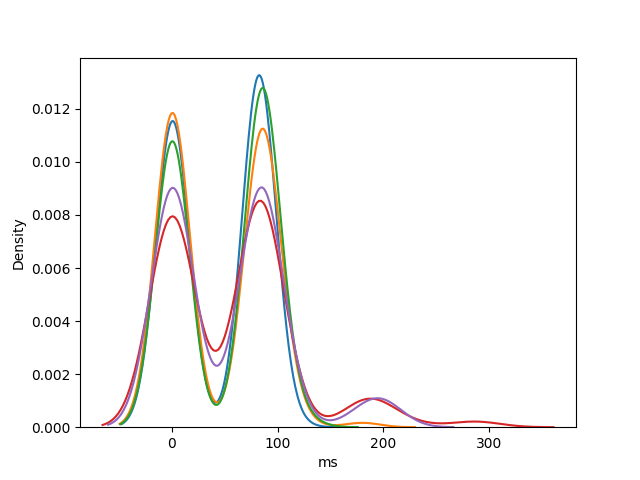
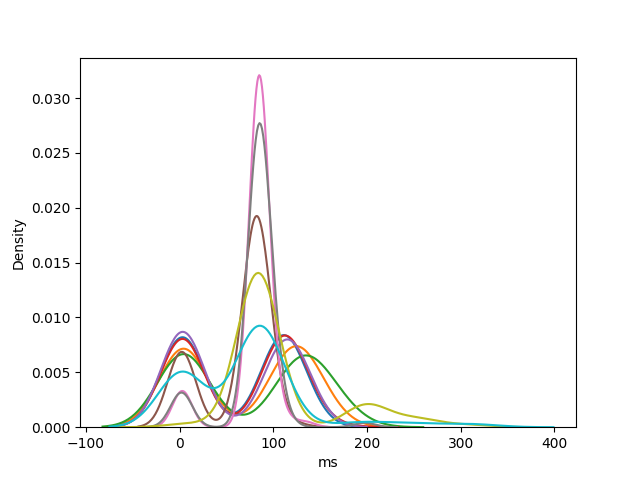
readme

diff --git a/plots/README.md b/plots/README.md
@@ -9,13 +9,13 @@
 
 | Key         | Value                        |
 | ----------- | ---------------------------- |
-| Completions | 117  |
-| Mean        | 45ms |
-| STD         | 41ms  |
-| Q0          | 0ms   |
-| Q50         | 81ms  |
-| Q95         | 85ms  |
-| Q100        | 109ms |
+| Completions | 77  |
+| Mean        | 62ms |
+| STD         | 36ms  |
+| Q0          | 1ms   |
+| Q50         | 82ms  |
+| Q95         | 84ms  |
+| Q100        | 121ms |
 
 ![fig.img](https://raw.githubusercontent.com/ms-jpq/vim.bench/main/plots/c6426ab57e802fa08dcffe99fbfeac14.png)
 
@@ -28,13 +28,13 @@
 
 | Key         | Value                        |
 | ----------- | ---------------------------- |
-| Completions | 136  |
-| Mean        | 49ms |
-| STD         | 44ms  |
-| Q0          | 0ms   |
-| Q50         | 82ms  |
-| Q95         | 97ms  |
-| Q100        | 127ms |
+| Completions | 81  |
+| Mean        | 79ms |
+| STD         | 25ms  |
+| Q0          | 1ms   |
+| Q50         | 84ms  |
+| Q95         | 94ms  |
+| Q100        | 134ms |
 
 ![fig.img](https://raw.githubusercontent.com/ms-jpq/vim.bench/main/plots/78cc3e419d8cc2f802e43d486be1fb4f.png)
 
@@ -47,13 +47,13 @@
 
 | Key         | Value                        |
 | ----------- | ---------------------------- |
-| Completions | 146  |
-| Mean        | 45ms |
-| STD         | 45ms  |
-| Q0          | 0ms   |
-| Q50         | 80ms  |
-| Q95         | 97ms  |
-| Q100        | 180ms |
+| Completions | 87  |
+| Mean        | 80ms |
+| STD         | 28ms  |
+| Q0          | 1ms   |
+| Q50         | 84ms  |
+| Q95         | 100ms  |
+| Q100        | 197ms |
 
 ![fig.img](https://raw.githubusercontent.com/ms-jpq/vim.bench/main/plots/58dd12a5c42471f3e2e23eec0c8f0800.png)
 
@@ -66,13 +66,13 @@
 
 | Key         | Value                        |
 | ----------- | ---------------------------- |
-| Completions | 160  |
-| Mean        | 57ms |
-| STD         | 61ms  |
-| Q0          | 0ms   |
-| Q50         | 81ms  |
-| Q95         | 182ms  |
-| Q100        | 295ms |
+| Completions | 101  |
+| Mean        | 107ms |
+| STD         | 56ms  |
+| Q0          | 1ms   |
+| Q50         | 83ms  |
+| Q95         | 239ms  |
+| Q100        | 312ms |
 
 ![fig.img](https://raw.githubusercontent.com/ms-jpq/vim.bench/main/plots/bc190c7ef28b48a0f7c19b0b8622951d.png)
 
@@ -85,15 +85,110 @@
 
 | Key         | Value                        |
 | ----------- | ---------------------------- |
-| Completions | 147  |
-| Mean        | 53ms |
-| STD         | 55ms  |
-| Q0          | 0ms   |
-| Q50         | 81ms  |
-| Q95         | 181ms  |
-| Q100        | 206ms |
+| Completions | 97  |
+| Mean        | 71ms |
+| STD         | 63ms  |
+| Q0          | 1ms   |
+| Q50         | 82ms  |
+| Q95         | 186ms  |
+| Q100        | 323ms |
 
 ![fig.img](https://raw.githubusercontent.com/ms-jpq/vim.bench/main/plots/21b9d82fd3a81ea3309e1d5ea8b54945.png)
+
+
+---
+
+### coc
+
+**/data/buffers/1-short.txt**
+
+| Key         | Value                        |
+| ----------- | ---------------------------- |
+| Completions | 68  |
+| Mean        | 59ms |
+| STD         | 55ms  |
+| Q0          | 2ms   |
+| Q50         | 105ms  |
+| Q95         | 124ms  |
+| Q100        | 126ms |
+
+![fig.img](https://raw.githubusercontent.com/ms-jpq/vim.bench/main/plots/d6c577cf11f50485e670588f497d2c50.png)
+
+
+---
+
+### coc
+
+**/data/buffers/2-medium.txt**
+
+| Key         | Value                        |
+| ----------- | ---------------------------- |
+| Completions | 75  |
+| Mean        | 69ms |
+| STD         | 62ms  |
+| Q0          | 2ms   |
+| Q50         | 112ms  |
+| Q95         | 139ms  |
+| Q100        | 160ms |
+
+![fig.img](https://raw.githubusercontent.com/ms-jpq/vim.bench/main/plots/ae946b7db85ca3a949abe2065096a051.png)
+
+
+---
+
+### coc
+
+**/data/buffers/3-long.txt**
+
+| Key         | Value                        |
+| ----------- | ---------------------------- |
+| Completions | 83  |
+| Mean        | 75ms |
+| STD         | 68ms  |
+| Q0          | 2ms   |
+| Q50         | 120ms  |
+| Q95         | 156ms  |
+| Q100        | 176ms |
+
+![fig.img](https://raw.githubusercontent.com/ms-jpq/vim.bench/main/plots/3632ec4f899dc310bbcd681a84d47fdc.png)
+
+
+---
+
+### coc
+
+**/data/lsp/coq_nvim/coq/server/edit.py**
+
+| Key         | Value                        |
+| ----------- | ---------------------------- |
+| Completions | 78  |
+| Mean        | 61ms |
+| STD         | 56ms  |
+| Q0          | 2ms   |
+| Q50         | 105ms  |
+| Q95         | 123ms  |
+| Q100        | 163ms |
+
+![fig.img](https://raw.githubusercontent.com/ms-jpq/vim.bench/main/plots/33951bb536765add01c7bcc6666fa47a.png)
+
+
+---
+
+### coc
+
+**/data/lsp/create-react-app/packages/create-react-app/createReactApp.js**
+
+| Key         | Value                        |
+| ----------- | ---------------------------- |
+| Completions | 87  |
+| Mean        | 59ms |
+| STD         | 57ms  |
+| Q0          | 2ms   |
+| Q50         | 8ms  |
+| Q95         | 127ms  |
+| Q100        | 130ms |
+
+![fig.img](https://raw.githubusercontent.com/ms-jpq/vim.bench/main/plots/d1830fa764c681a6269d3796738bba80.png)
 
 
 ---
@@ -104,13 +199,13 @@
 
 | Key         | Value                        |
 | ----------- | ---------------------------- |
-| Completions | 104  |
-| Mean        | 30ms |
-| STD         | 22ms  |
-| Q0          | 0ms   |
-| Q50         | 33ms  |
-| Q95         | 65ms  |
-| Q100        | 71ms |
+| Completions | 68  |
+| Mean        | 45ms |
+| STD         | 13ms  |
+| Q0          | 30ms   |
+| Q50         | 42ms  |
+| Q95         | 71ms  |
+| Q100        | 82ms |
 
 ![fig.img](https://raw.githubusercontent.com/ms-jpq/vim.bench/main/plots/b5a0628258631a855e2b954dce9d61b7.png)
 
@@ -123,13 +218,13 @@
 
 | Key         | Value                        |
 | ----------- | ---------------------------- |
-| Completions | 132  |
-| Mean        | 48ms |
-| STD         | 45ms  |
-| Q0          | 0ms   |
-| Q50         | 45ms  |
-| Q95         | 111ms  |
-| Q100        | 143ms |
+| Completions | 79  |
+| Mean        | 77ms |
+| STD         | 23ms  |
+| Q0          | 40ms   |
+| Q50         | 85ms  |
+| Q95         | 107ms  |
+| Q100        | 117ms |
 
 ![fig.img](https://raw.githubusercontent.com/ms-jpq/vim.bench/main/plots/ad82d296990a5c5c2557f2e7af158e63.png)
 
@@ -142,13 +237,13 @@
 
 | Key         | Value                        |
 | ----------- | ---------------------------- |
-| Completions | 144  |
-| Mean        | 46ms |
-| STD         | 44ms  |
-| Q0          | 0ms   |
-| Q50         | 45ms  |
-| Q95         | 112ms  |
-| Q100        | 131ms |
+| Completions | 85  |
+| Mean        | 88ms |
+| STD         | 29ms  |
+| Q0          | 1ms   |
+| Q50         | 95ms  |
+| Q95         | 121ms  |
+| Q100        | 161ms |
 
 ![fig.img](https://raw.githubusercontent.com/ms-jpq/vim.bench/main/plots/675da12f4bded28a8a71ca93d7911b30.png)
 
@@ -161,13 +256,13 @@
 
 | Key         | Value                        |
 | ----------- | ---------------------------- |
-| Completions | 144  |
-| Mean        | 57ms |
-| STD         | 51ms  |
-| Q0          | 0ms   |
-| Q50         | 67ms  |
-| Q95         | 132ms  |
-| Q100        | 209ms |
+| Completions | 89  |
+| Mean        | 105ms |
+| STD         | 39ms  |
+| Q0          | 1ms   |
+| Q50         | 103ms  |
+| Q95         | 162ms  |
+| Q100        | 241ms |
 
 ![fig.img](https://raw.githubusercontent.com/ms-jpq/vim.bench/main/plots/77d454f58a6c11696a39a2b4a31ad13f.png)
 
@@ -180,13 +275,13 @@
 
 | Key         | Value                        |
 | ----------- | ---------------------------- |
-| Completions | 137  |
-| Mean        | 52ms |
-| STD         | 50ms  |
-| Q0          | 0ms   |
-| Q50         | 49ms  |
-| Q95         | 137ms  |
-| Q100        | 203ms |
+| Completions | 92  |
+| Mean        | 83ms |
+| STD         | 46ms  |
+| Q0          | 36ms   |
+| Q50         | 76ms  |
+| Q95         | 154ms  |
+| Q100        | 254ms |
 
 ![fig.img](https://raw.githubusercontent.com/ms-jpq/vim.bench/main/plots/3b523c9b210a67f020683294edb06b04.png)
 
